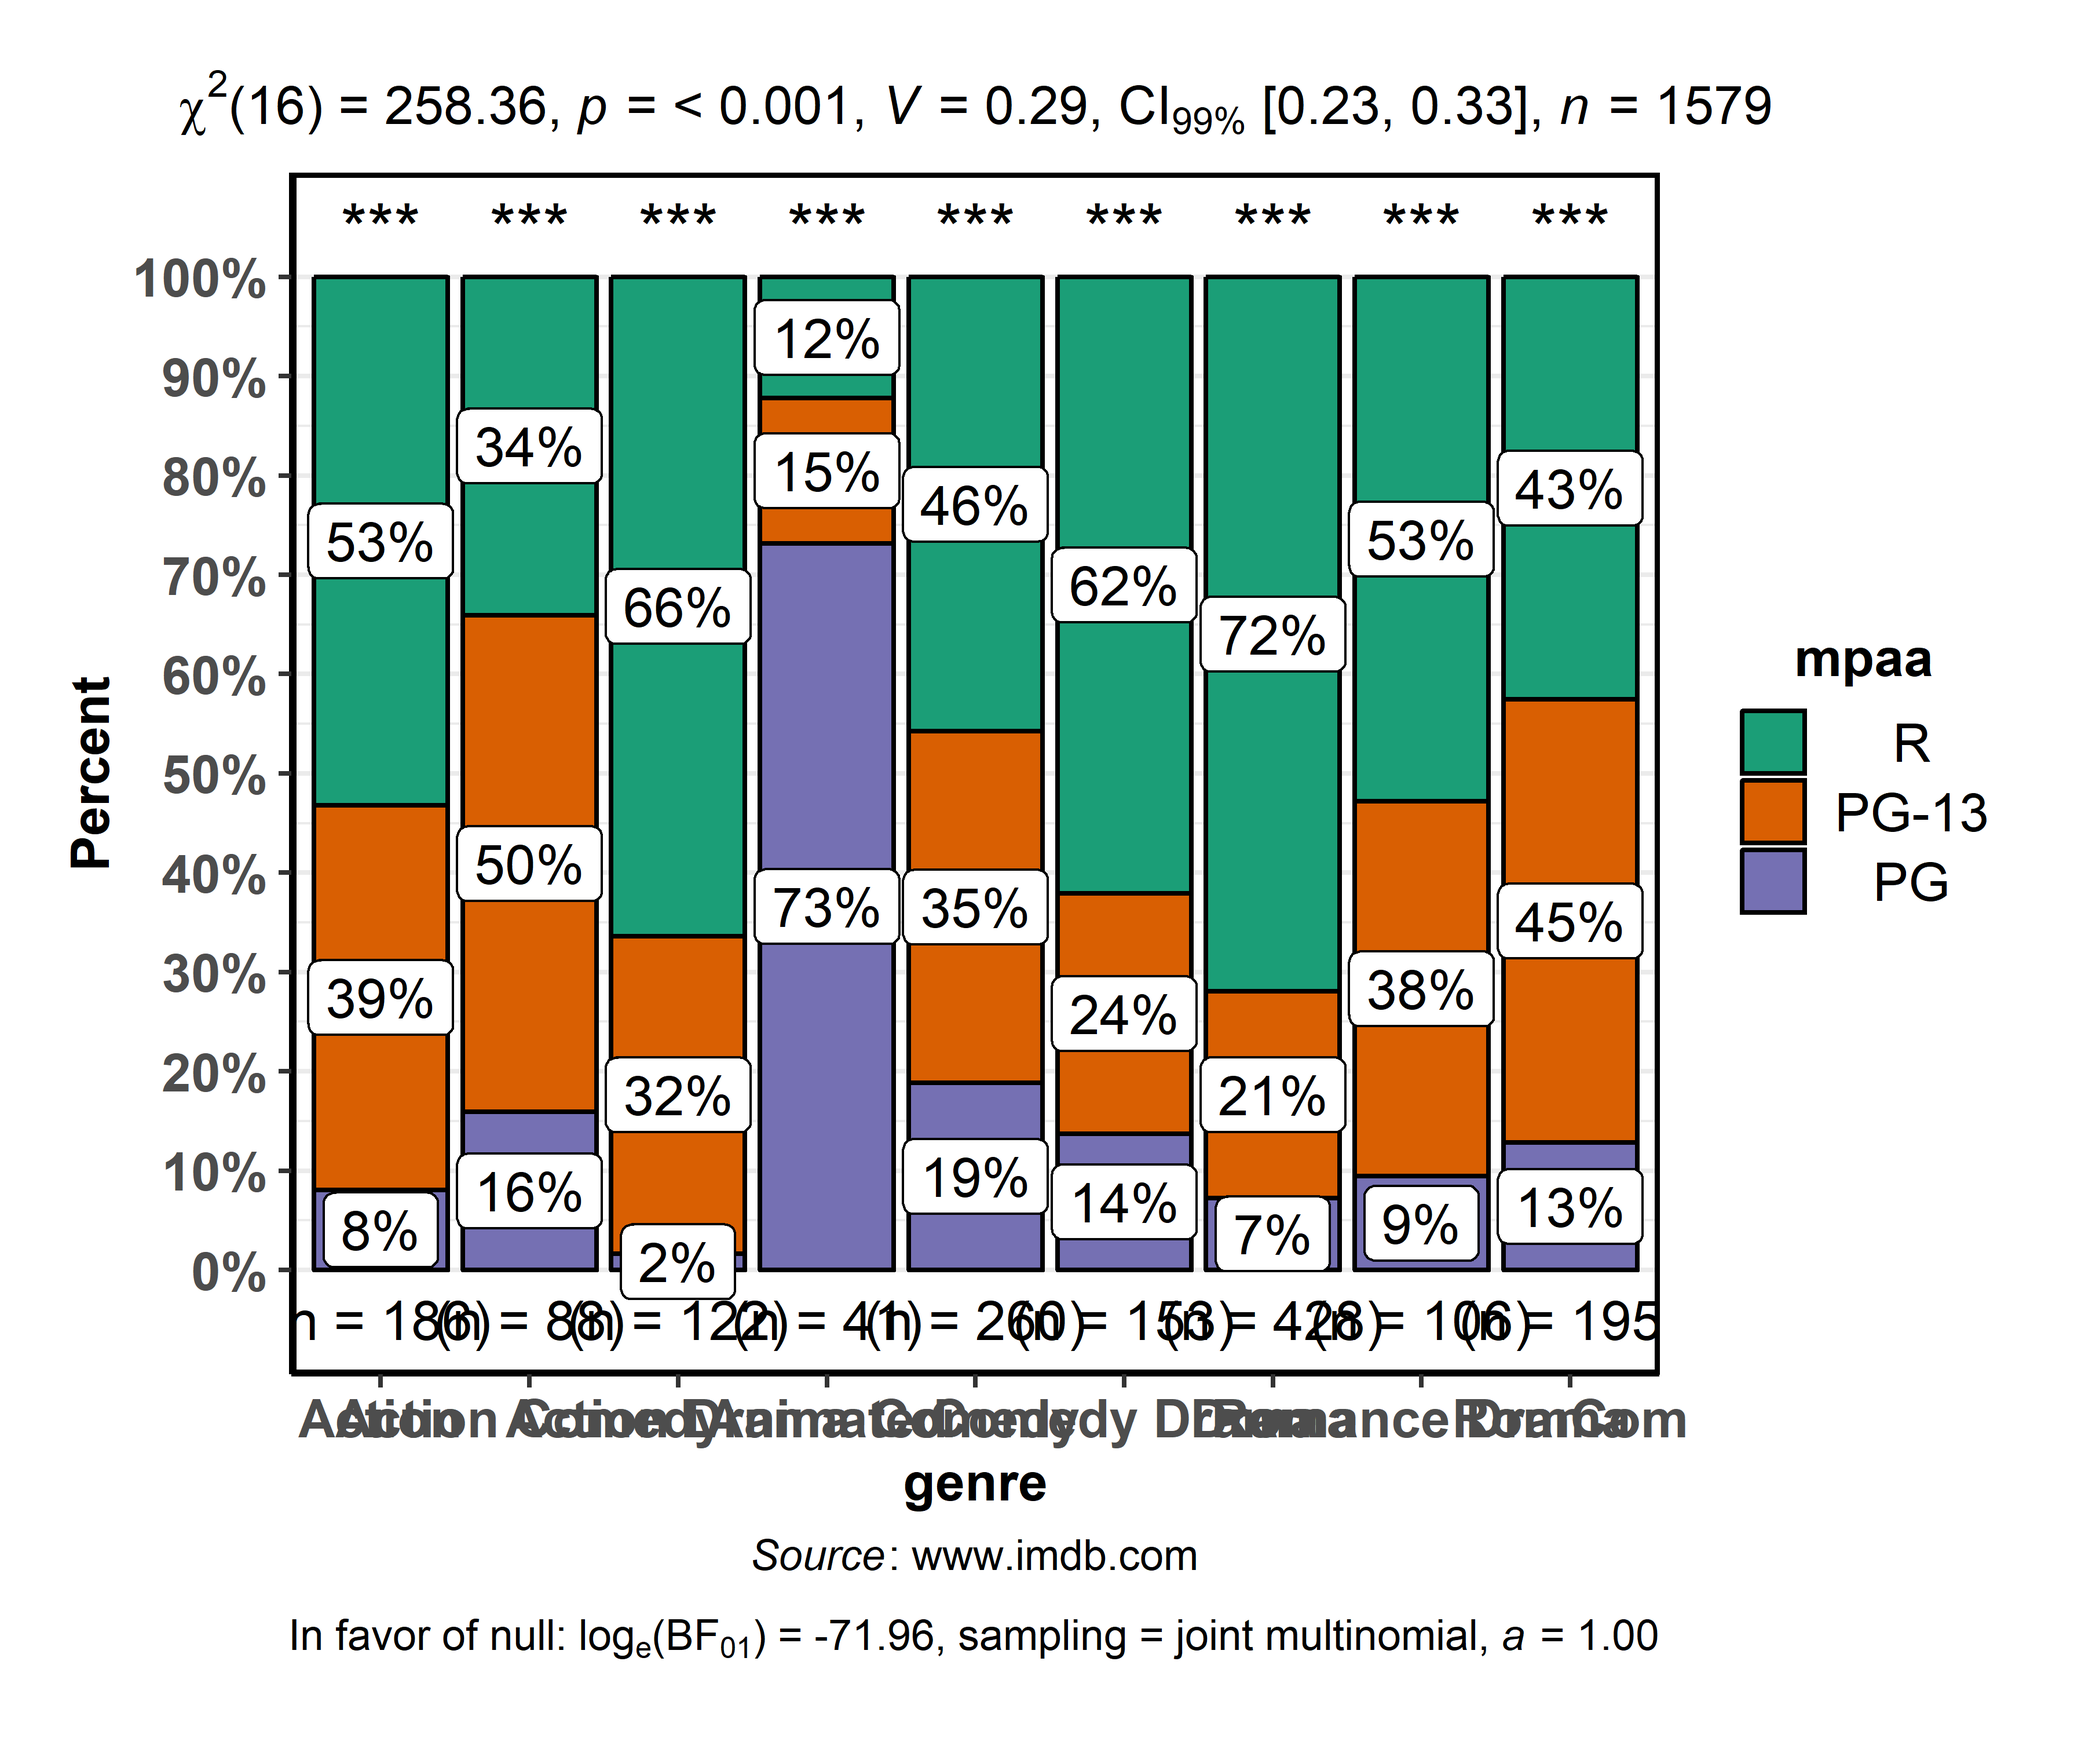
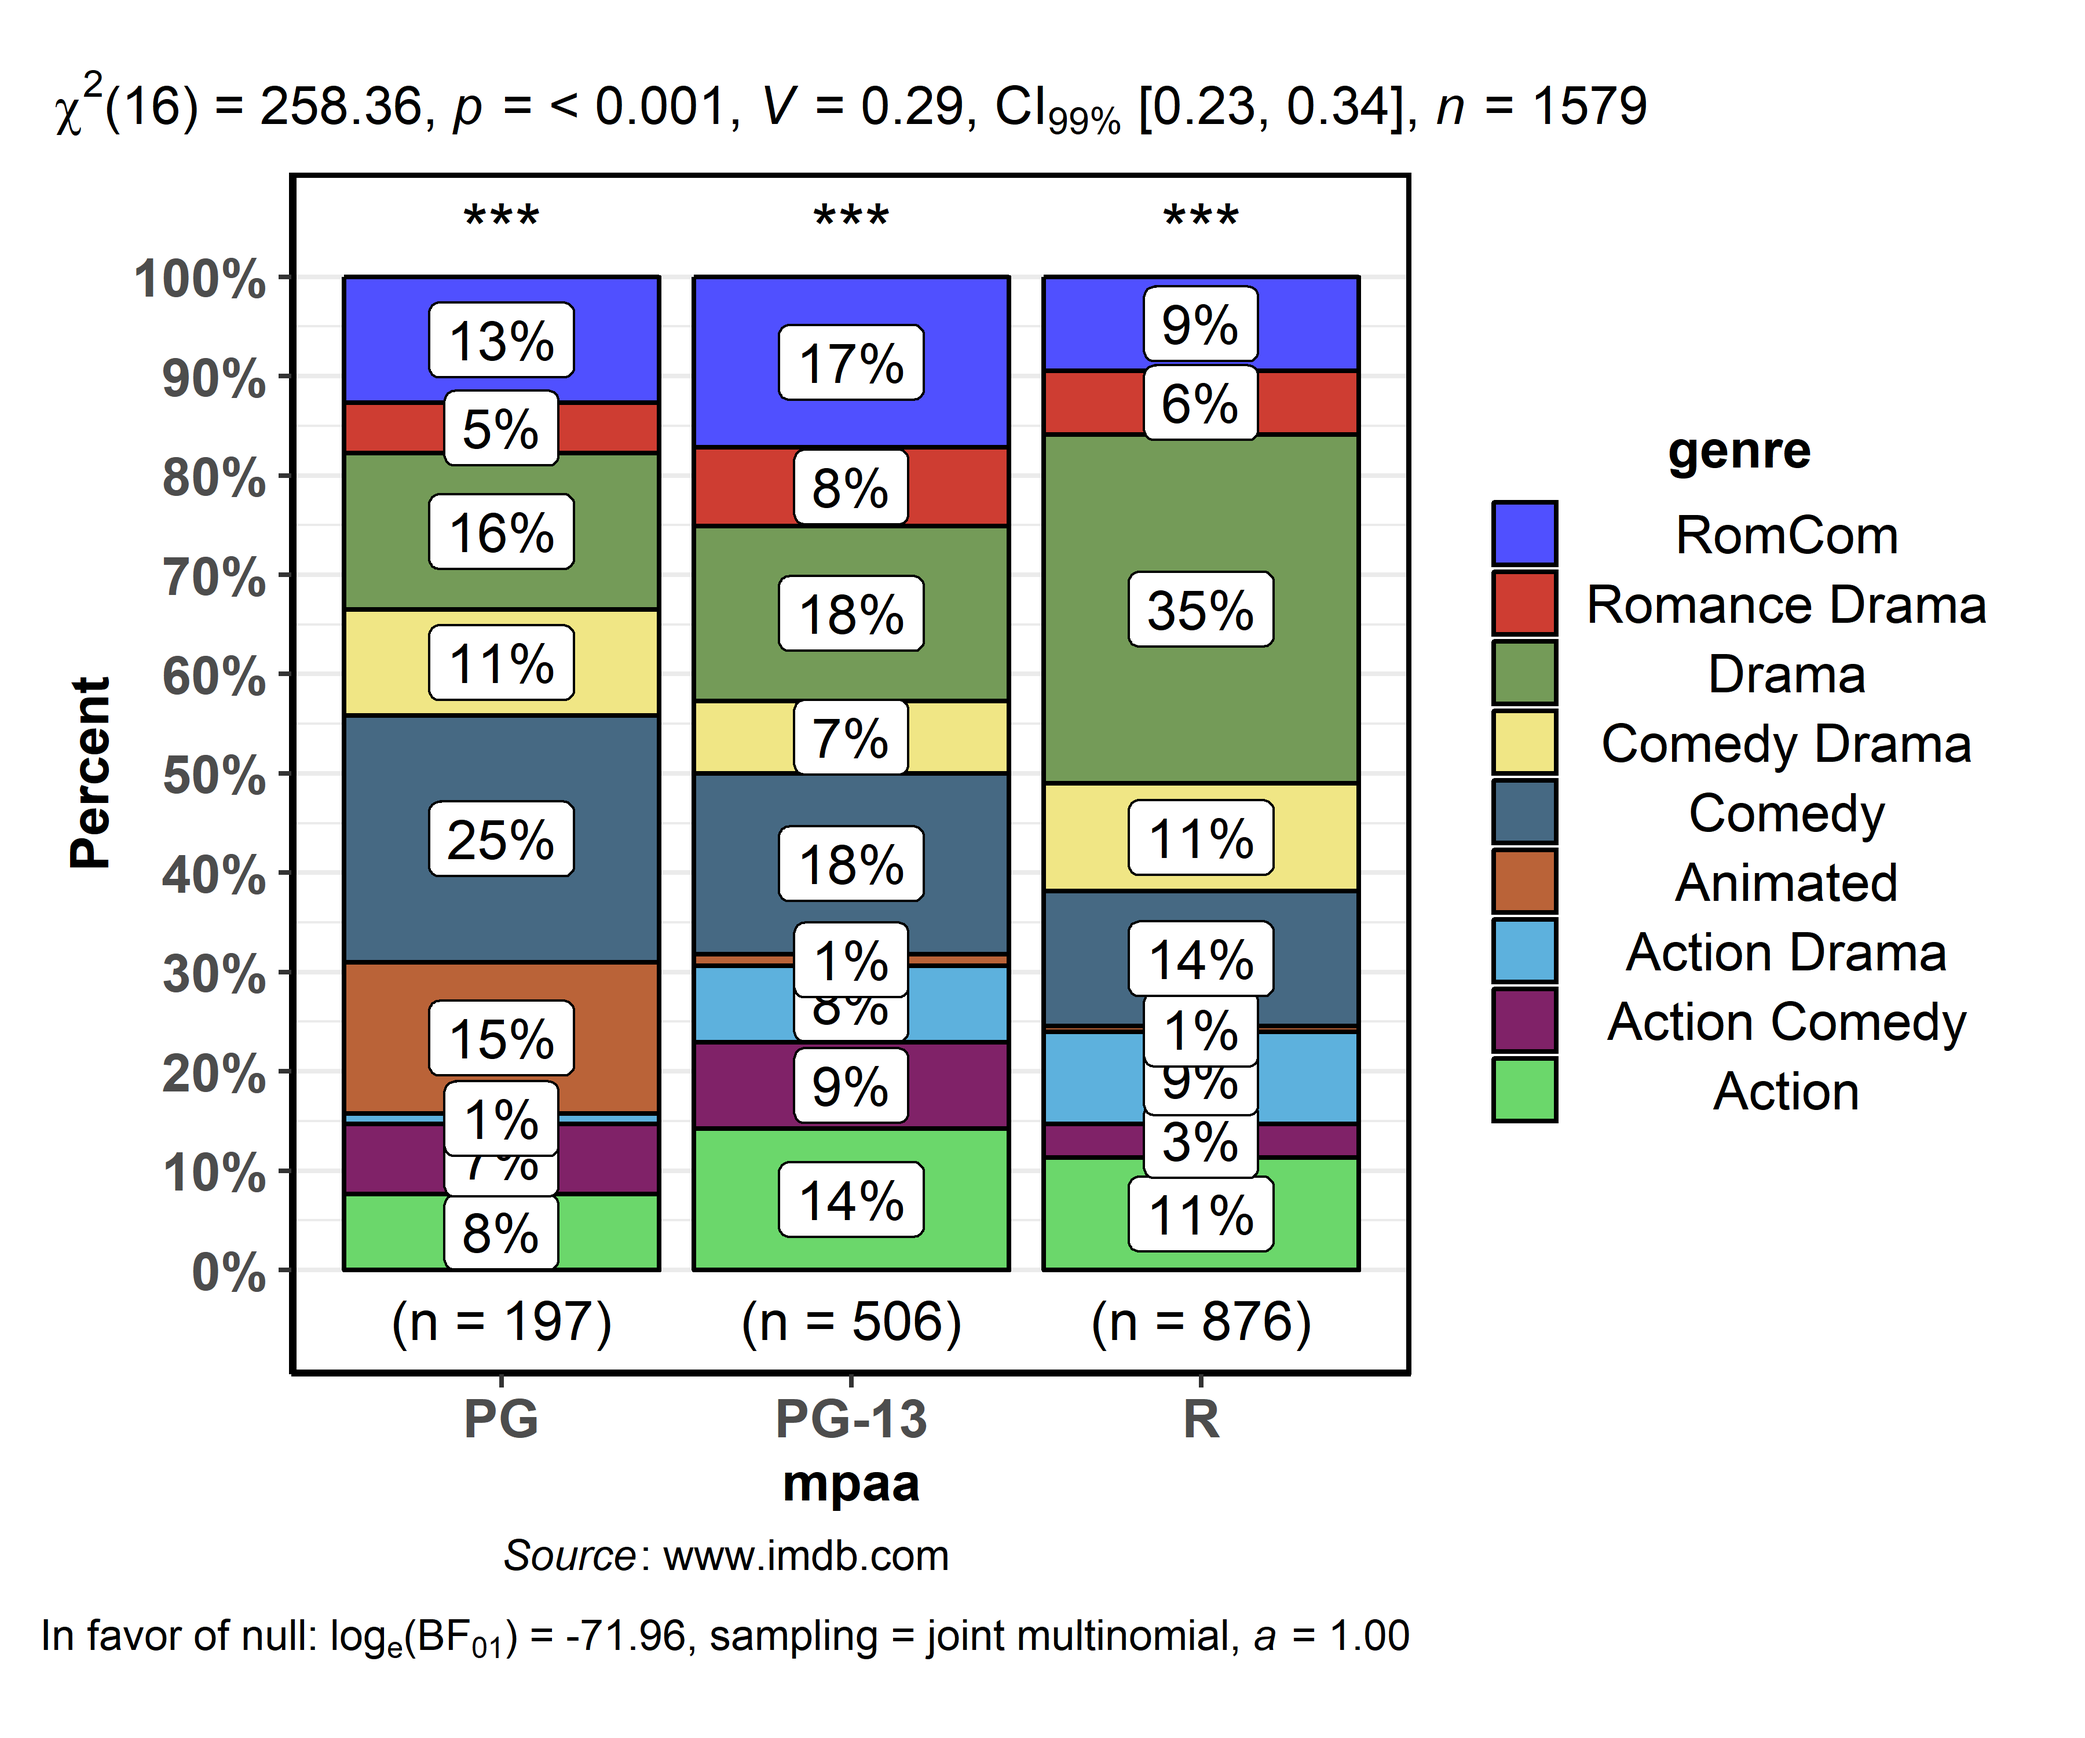
minor errors removed

diff --git a/ggstatsplot_presentation.html b/ggstatsplot_presentation.html
@@ -1,7 +1,7 @@
 <!DOCTYPE html>
 <html>
   <head>
-    <title>ggstatsplot:  R Package for ggplot2 Based Plots with Statistical Details</title>
+    <title>ggstatsplot: ggplot2 Based Plots with Statistical Details</title>
     <meta charset="utf-8">
     <meta name="author" content="Indrajeet Patil" />
     <meta name="date" content="2019-02-05" />
@@ -30,7 +30,7 @@
     <textarea id="source">
 class: center, middle, inverse, title-slide
 
-# <code>ggstatsplot</code>: <br>R Package for <code>ggplot2</code> Based Plots with Statistical Details
+# <code>ggstatsplot</code>: <code>ggplot2</code> Based Plots with Statistical Details
 ## Harvard Psych Methods Dinners
 ### Indrajeet Patil
 ### 2019-02-05
@@ -48,6 +48,24 @@ code.r{
 &lt;/style&gt;
 
 
+
+---
+
+layout: true
+
+Plan
+
+---
+
+- Why *ggstatsplot*?
+
+- Current functions
+
+- Benefits and scalability
+
+- Limitations
+
+- Future
 
 ---
 layout: false
@@ -624,10 +642,11 @@ layout: true
 
 ```r
 ggstatsplot::gghistostats(
-  data = iris,    
-  x = Sepal.Length,
-* test.value = 5,
-  title = "Distribution of Iris sepal length",
+  data = movies_long,    
+  x = budget,
+* test.value = 50,
+* bar.measure = "count", # default
+* bf.message = TRUE,
   messages = FALSE
 ) 
 ```
@@ -651,12 +670,93 @@ Changing the type of test
 
 ---
 
+.left-code[
+
+```r
+ggstatsplot::gghistostats(
+  data = movies_long,    
+  x = budget,
+  type = "np",
+  test.value = 50,
+* test.value.size = TRUE,
+* bar.measure = "mix",
+  conf.level = 0.99,
+  centrality.para = "median", 
+* test.value.line = TRUE,
+* binwidth = 10,
+* normal.curve = TRUE,
+* ggtheme = hrbrthemes::theme_ipsum_tw(),
+* ggstatsplot.layer = FALSE,
+  messages = FALSE
+) 
+```
+
+.font80[
+Available bar measures 
+
+- **count**
+
+- **proportion**
+
+- **both** (of the above)
+
+- **density**
+
+]
+]
+
+.right-plot[
+&lt;img src="ggstatsplot_presentation_files/figure-html/gghistostats_2-1.png" width="100%" style="display: block; margin: auto;" /&gt;
+]
+
+---
+
 layout: false
 
 class: inverse, center, middle
 
 # ggdotplotstats
 Distribution of a numeric variable with labels
+
+---
+
+layout: true
+
+# ggdotplotstats
+
+---
+
+.left-code[
+
+```r
+ggstatsplot::ggdotplotstats(
+  data = movies_long,
+  x = budget,
+  y = genre,
+* type = "r",
+* test.value = 50,
+  test.value.line = TRUE,
+  ggtheme = ggthemes::theme_par(),
+  messages = FALSE
+) 
+```
+
+.font80[
+Changing the type of test
+
+- `"p"` → **parametric**
+
+- `"np"` → **non-parametric**
+
+- `"r"` → **robust**
+
+- `"bf"` → **bayes factor**
+]
+]
+
+.right-plot[
+&lt;img src="ggstatsplot_presentation_files/figure-html/ggdotplotstats_1-1.png" width="100%" style="display: block; margin: auto;" /&gt;
+]
 
 ---
 
@@ -679,12 +779,14 @@ layout: true
 
 ```r
 ggpiestats(
-  data = mtcars, 
-  main = am,
-  condition = cyl,
+  data = movies_long, 
+  main = genre,
+  condition = mpaa,
 * paired = FALSE, # default
 * conf.level = 0.99,
 * bf.message = TRUE,
+  package = "ggsci",
+  palette = "default_ucscgb",
   messages = FALSE
 )
 ```
@@ -747,11 +849,13 @@ For composition of categorical variables
 ```r
 ggbarstats(
   data = movies_long, 
-  main = mpaa,
-  condition = genre,
+  main = genre,
+  condition = mpaa,
 * conf.level = 0.99,
 * paired = FALSE, # default
   bf.message = TRUE,
+  package = "ggsci",
+  palette = "default_igv",
 * caption = substitute(
 *   paste(italic("Source"), ": www.imdb.com")
 * ),
@@ -779,6 +883,31 @@ class: inverse, center, middle
 
 # ggcoefstats
 Displaying results from regression analyses
+
+---
+
+layout: true
+
+# ggdotplotstats
+
+---
+
+.left-code[
+
+```r
+ggstatsplot::ggcoefstats(
+  stats::lm(
+    formula = mpg ~ am * cyl,
+    data = mtcars
+  )
+) 
+```
+
+]
+
+.right-plot[
+&lt;img src="ggstatsplot_presentation_files/figure-html/ggcoefstats_1-1.png" width="100%" style="display: block; margin: auto;" /&gt;
+]
 
 ---
 
